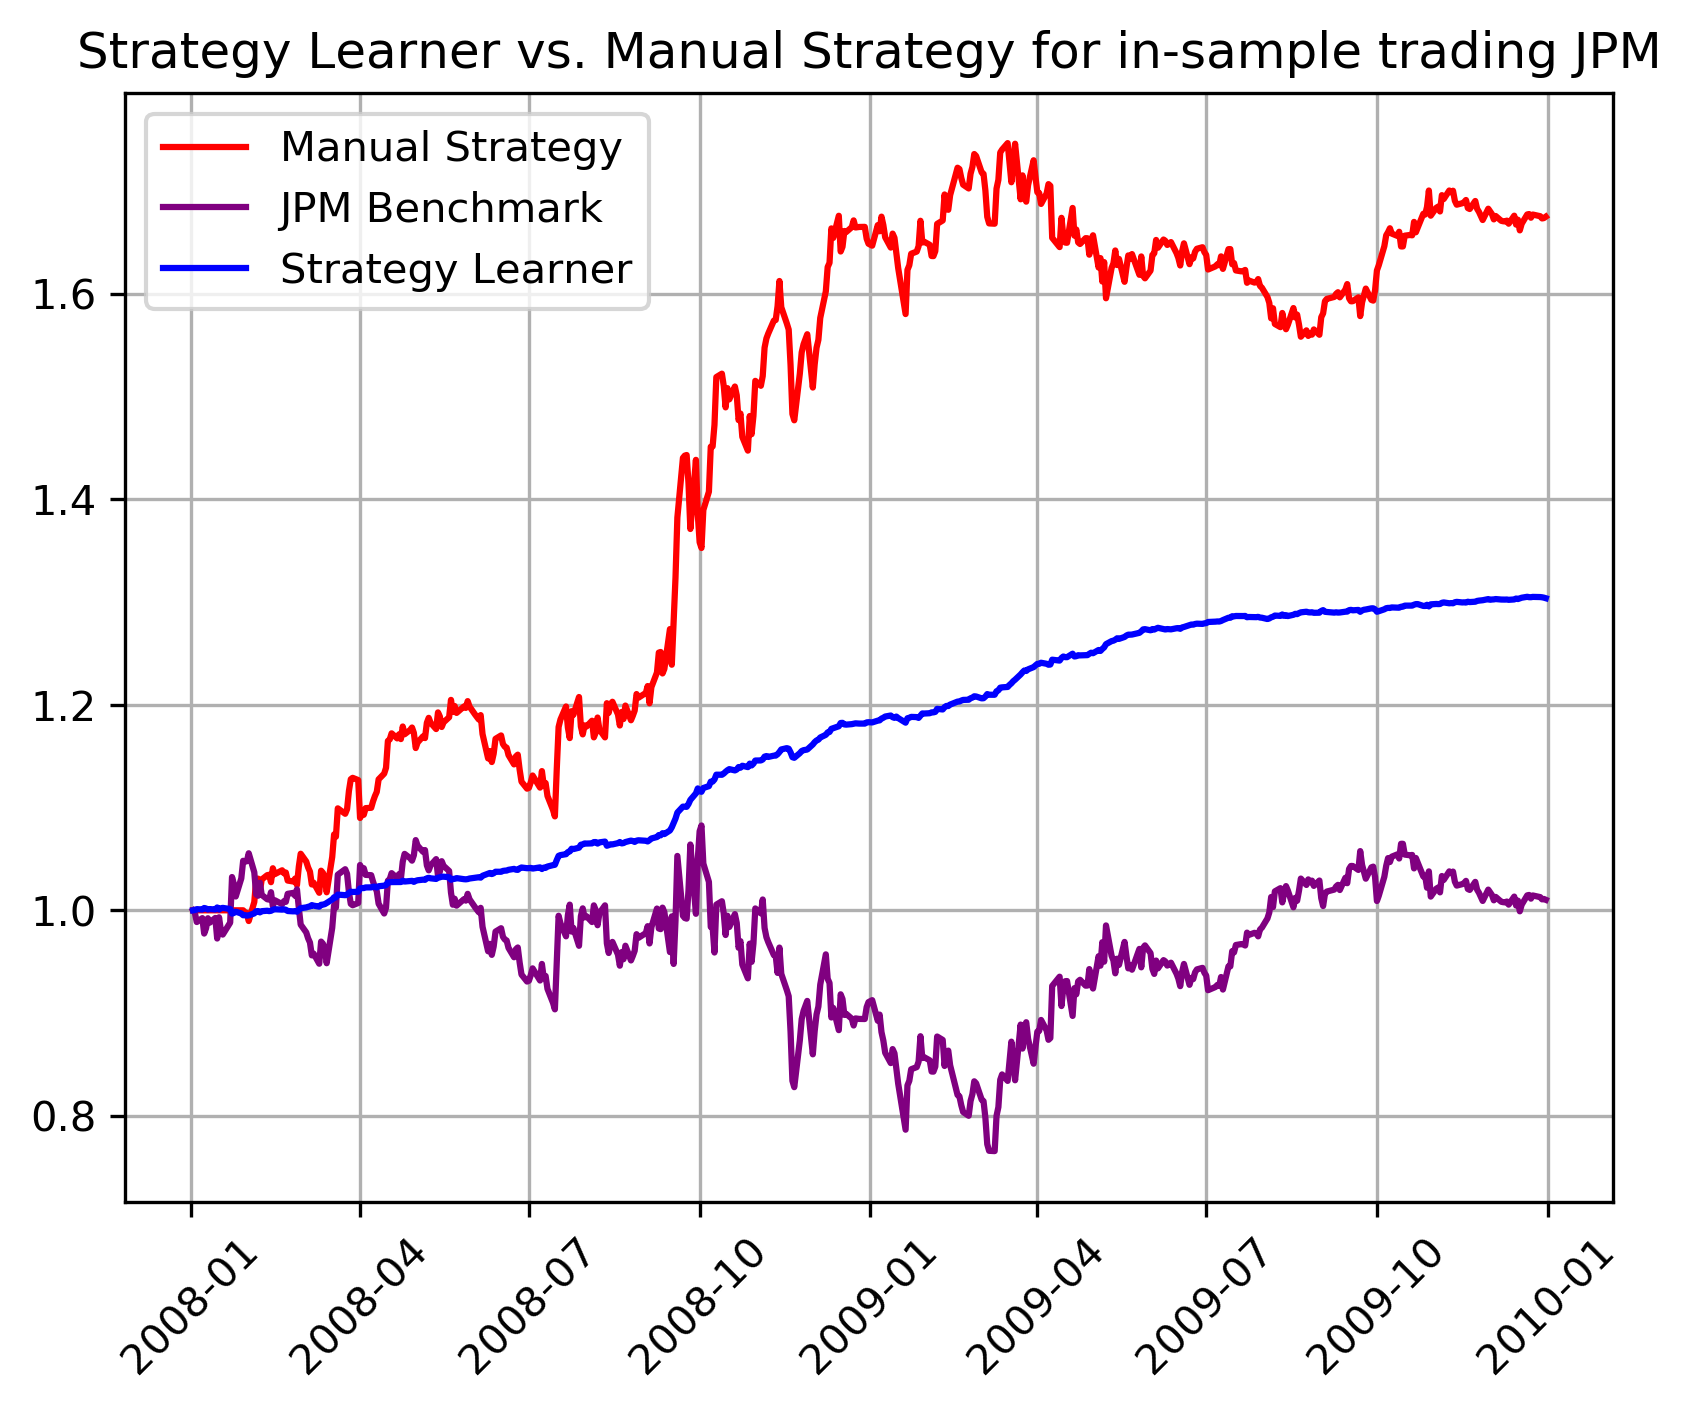
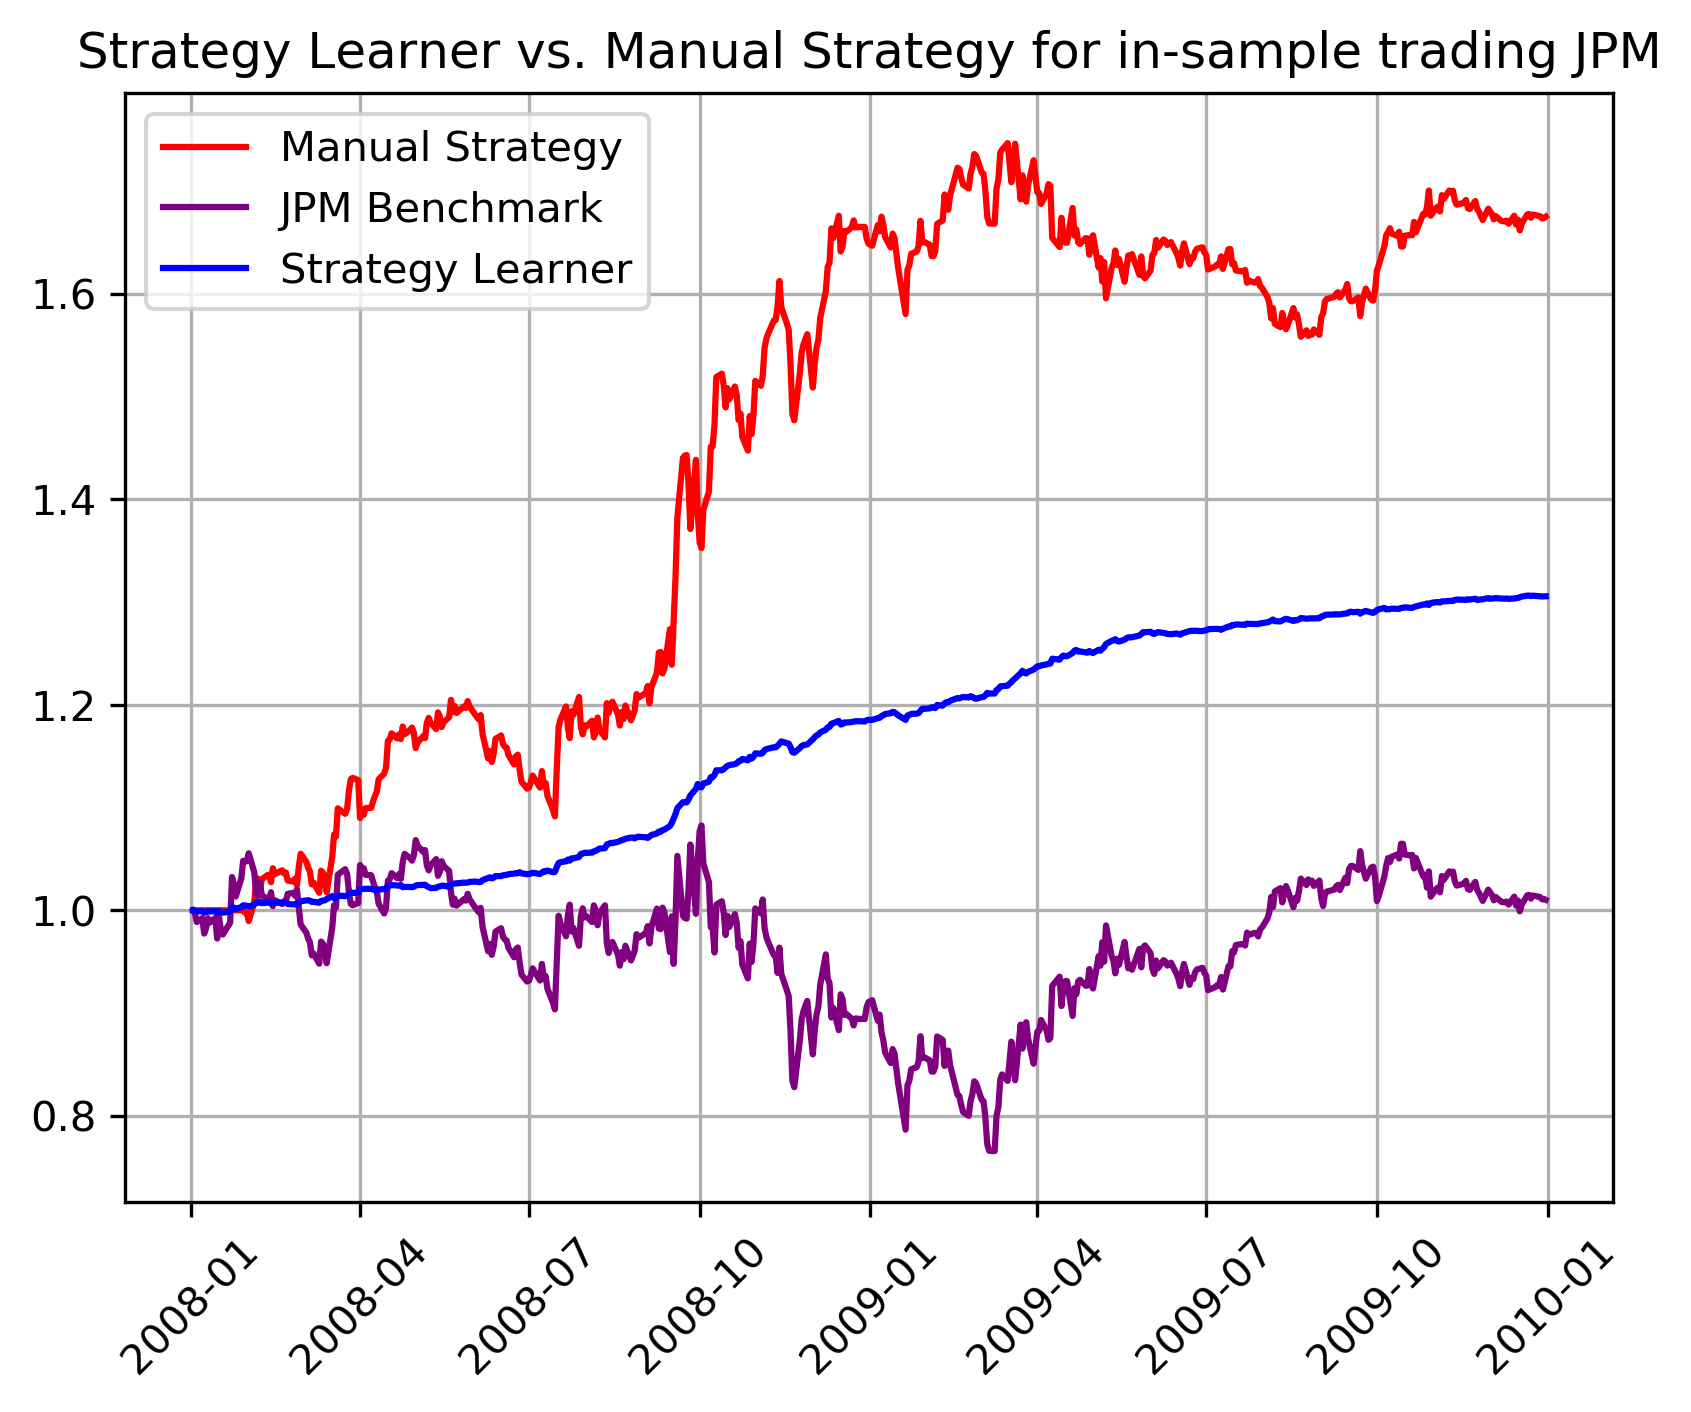
Using qcut for discretizing data in StrategyLearner.py

diff --git a/strategy_evaluation/StrategyLearner.py b/strategy_evaluation/StrategyLearner.py
@@ -32,8 +32,6 @@ import pandas as pd
 import util as ut
 import QLearner as ql
 import indicators as ind
-import numpy as np
-
 
 class StrategyLearner(object):
     """
@@ -90,9 +88,9 @@ class StrategyLearner(object):
         prices_SPY = prices_all["SPY"]  # only SPY, for comparison later
 
         bbp, CCI, MOM = ind.get_indicators(symbol, sd, ed)
-        bbp = discretize(bbp).rename({symbol:'BBP'}, axis=1)
-        CCI = discretize(CCI).rename({symbol:'CCI'}, axis=1)
-        MOM = discretize(MOM).rename({symbol:'MOM'}, axis=1)
+        bbp = discretize(bbp, prices, symbol).rename({symbol:'BBP'}, axis=1)
+        CCI = discretize(CCI, prices, symbol).rename({symbol:'CCI'}, axis=1)
+        MOM = discretize(MOM, prices, symbol).rename({symbol:'MOM'}, axis=1)
 
         indicators = pd.concat([bbp, CCI, MOM], axis=1)
         indicators = indicators.loc[sd:]
@@ -101,11 +99,8 @@ class StrategyLearner(object):
         initial_state = indicators.iloc[0]['state']
 
         self.ql.querysetstate(int(float(initial_state)))
-
         df_trades = pd.DataFrame(0, index=prices.index, columns=[symbol])
-
         daily_price_change = get_daily_returns(prices)
-
         df_trades_copy = df_trades.copy()
         i = 0
 
@@ -177,10 +172,9 @@ class StrategyLearner(object):
         prices_SPY = prices_all["SPY"]  # only SPY, for comparison later
 
         bbp, CCI, MOM = ind.get_indicators(symbol, sd, ed)
-
-        bbp = discretize(bbp).rename({symbol: 'BBP'}, axis=1)
-        CCI = discretize(CCI).rename({symbol: 'CCI'}, axis=1)
-        MOM = discretize(MOM).rename({symbol: 'MOM'}, axis=1)
+        bbp = discretize(bbp, prices, symbol).rename({symbol: 'BBP'}, axis=1)
+        CCI = discretize(CCI, prices, symbol).rename({symbol: 'CCI'}, axis=1)
+        MOM = discretize(MOM, prices, symbol).rename({symbol: 'MOM'}, axis=1)
 
         indicators = pd.concat([bbp, CCI, MOM], axis=1)
         indicators = indicators.loc[sd:]
@@ -188,9 +182,7 @@ class StrategyLearner(object):
         initial_state = indicators.iloc[0]['state']
 
         self.ql.querysetstate(int(float(initial_state)))
-
         df_trades = pd.DataFrame(0, index=prices.index, columns=[symbol])
-
         holdings = 0
 
         for index in range(len(prices)):
@@ -218,36 +210,14 @@ def get_daily_returns(port_val):
     daily_returns[1:] = (port_val[1:] / port_val[:-1].values) - 1
     return daily_returns
 
-def discretize(data, steps=10):
-    stepsize = round(len(data) / steps)
-    data1 = data.sort_values()
-    threshold = np.zeros(steps - 1)
-    for i in range(steps - 1):
-        threshold[i] = data1.iloc[(i + 1) * stepsize]
-
-    for i in range(len(data)):
-        if data.iloc[i] <= threshold[0]:
-            data.iloc[i] = 0
-        elif threshold[0] < data.iloc[i] <= threshold[1]:
-            data.iloc[i] = 1
-        elif threshold[1] < data.iloc[i] <= threshold[2]:
-            data.iloc[i] = 2
-        elif threshold[2] < data.iloc[i] <= threshold[3]:
-            data.iloc[i] = 3
-        elif threshold[3] < data.iloc[i] <= threshold[4]:
-            data.iloc[i] = 4
-        elif threshold[4] < data.iloc[i] <= threshold[5]:
-            data.iloc[i] = 5
-        elif threshold[5] < data.iloc[i] <= threshold[6]:
-            data.iloc[i] = 6
-        elif threshold[6] < data.iloc[i] <= threshold[7]:
-            data.iloc[i] = 7
-        elif threshold[7] < data.iloc[i] <= threshold[8]:
-            data.iloc[i] = 8
-        else:
-            data.iloc[i] = 9
-    return (data.astype(int)).to_frame()
-
+def discretize(data, prices, symbol, steps=10):
+    labels = range(steps)
+    discret_data = pd.DataFrame(0, index=prices.index,columns=[symbol])
+    # In-built pandas function for discretization
+    discret_data[symbol] = pd.qcut(data, q=steps, labels=labels, precision=0, duplicates='drop')
+    discret_data.fillna(0, inplace=True)
+    #print("Discretized Data",discret_data)
+    return discret_data
 
 if __name__ == "__main__":
     print("One does not simply think up a strategy")
